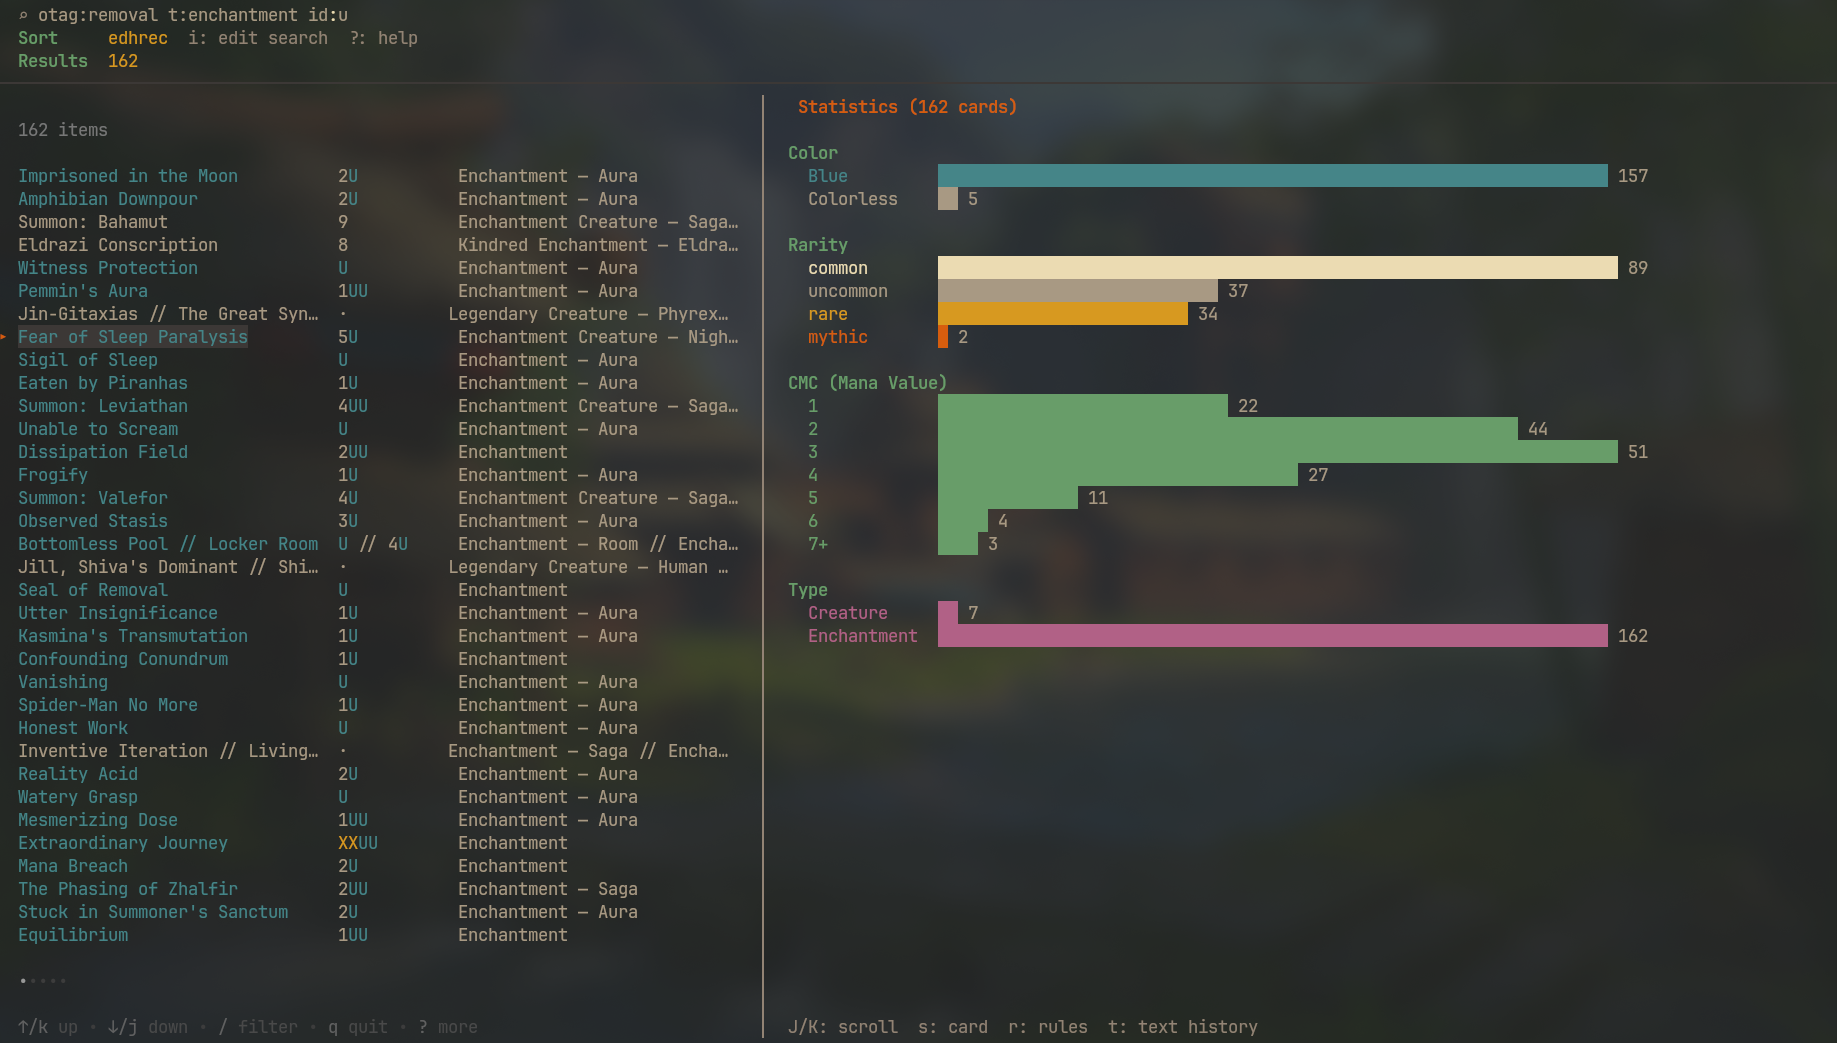
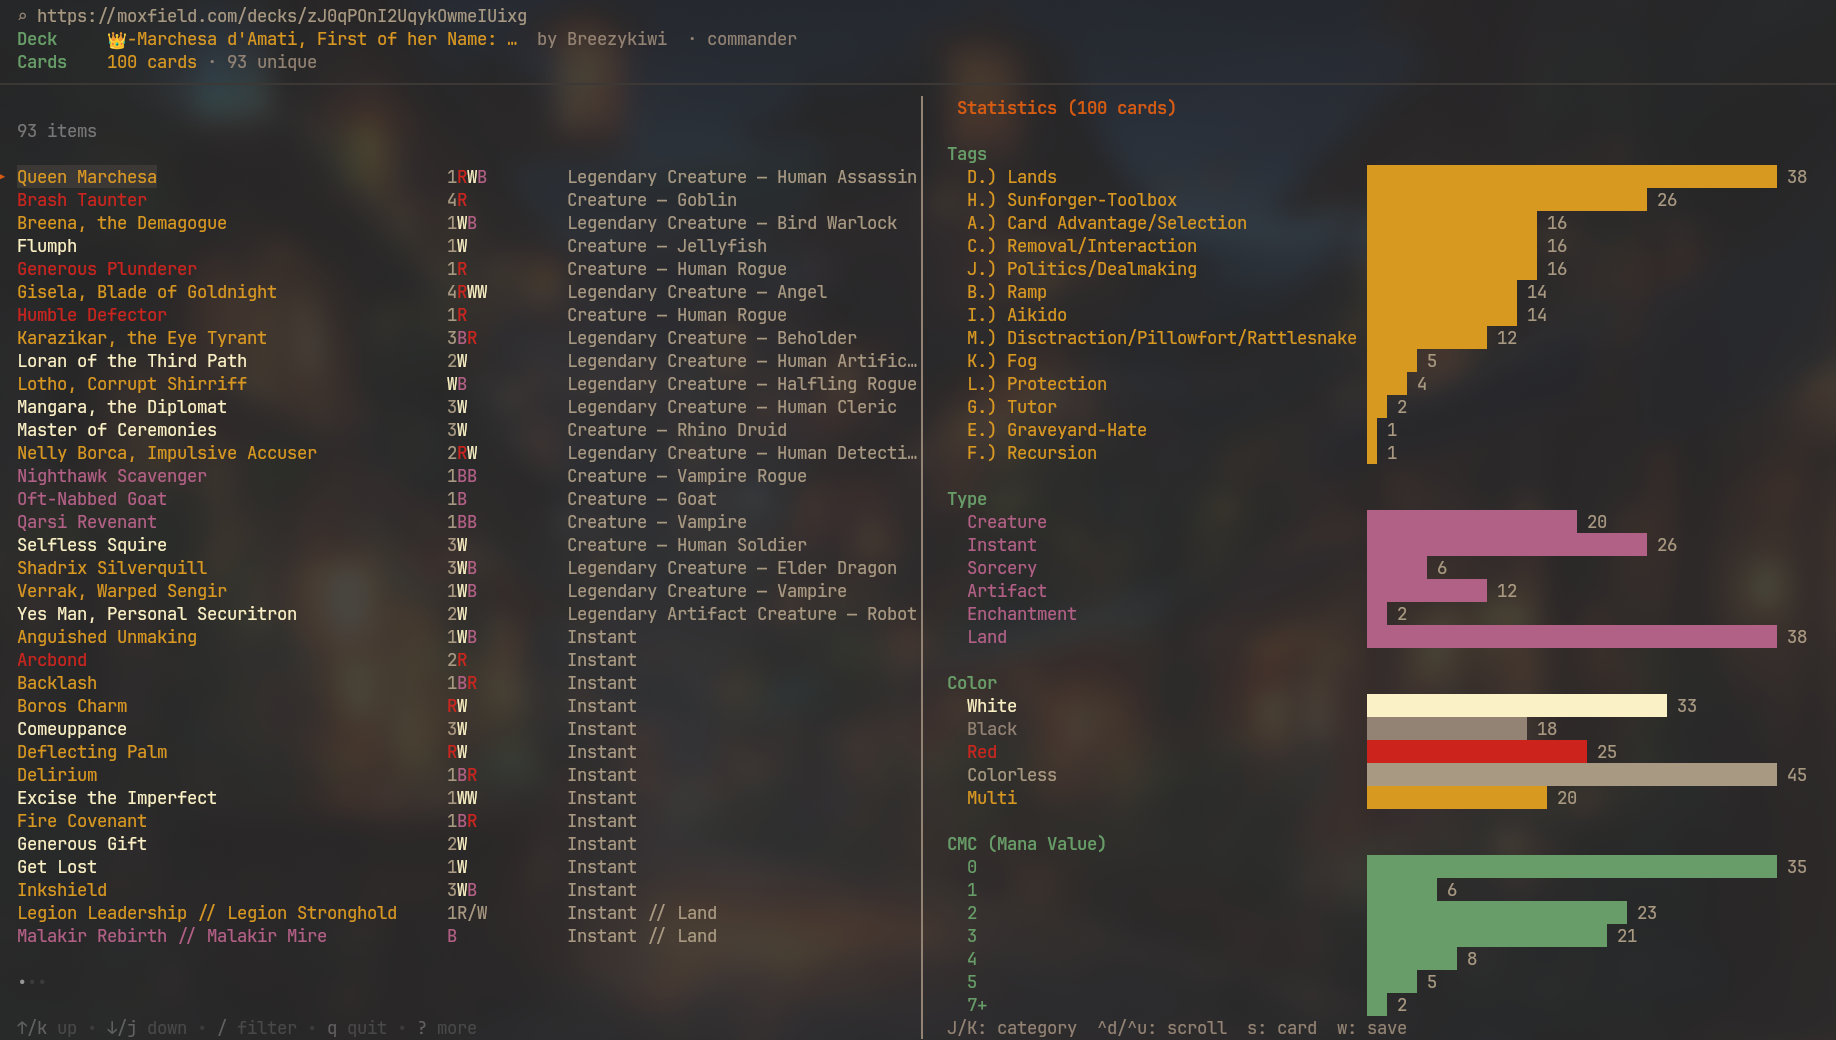
Reorder the statistics categories, and scroll them independently
The breakdown now reads Tags, Type, Color, CMC, Rarity: what the deck's
author called their cards first, then what those cards are, with the
printing details last.

ctrl+d and ctrl+u scroll a panel half a screen. In the statistics panel
that moves the view without moving the selected category, which J/K
can't do — it walks the categories and pulls the selection back into
view. Both now go through one place that stops at the end of the
content, so holding J no longer scrolls any panel off into blank space.

Adds screenshots of a loaded deck and of filtering by a category, and
refreshes the statistics one for the new order.

diff --git a/main.go b/main.go
@@ -530,6 +530,9 @@ KEYS — RESULTS
   J/K, shift+↑/↓          Scroll the panel — in the statistics panel,
                           walk the categories and filter the cards to
                           whichever one the cursor is on
+  ctrl+d / ctrl+u         Scroll the panel half a screen; in the
+                          statistics panel this moves the view without
+                          moving the selected category
   r                       Rules for this card (again for the card view)
   s                       Statistics for these results (again for the card).
                           J/K there filters to a colour, rarity, mana
@@ -1202,37 +1205,28 @@ func (m model) updateList(msg tea.KeyMsg) (tea.Model, tea.Cmd) {
 		case "w":
 			return m.saveCurrentDeck(), nil
 		case "J", "shift+down":
-			switch m.panel {
-			case panelStats:
-				// The statistics panel is a list rather than a wall of
-				// text, so J/K walks its categories and filters to them.
+			// The statistics panel is a list rather than a wall of text,
+			// so J/K walks its categories and filters to them.
+			if m.panel == panelStats {
 				return m.statMove(1)
-			case panelRules:
-				m.rulesScroll++
-			case panelHistory:
-				m.historyScroll++
-			default:
-				m.previewScroll++
 			}
-			return m, nil
+			return m.scrollPanel(1), nil
 		case "K", "shift+up":
-			switch m.panel {
-			case panelStats:
+			if m.panel == panelStats {
 				return m.statMove(-1)
-			case panelRules:
-				if m.rulesScroll > 0 {
-					m.rulesScroll--
-				}
-			case panelHistory:
-				if m.historyScroll > 0 {
-					m.historyScroll--
-				}
-			default:
-				if m.previewScroll > 0 {
-					m.previewScroll--
-				}
 			}
-			return m, nil
+			return m.scrollPanel(-1), nil
+		case "ctrl+d", "ctrl+u":
+			// Scrolling the panel proper, which in the statistics panel
+			// means moving the view without moving the selected category.
+			step := (m.resultsLayout().panelH - 1) / 2
+			if step < 1 {
+				step = 1
+			}
+			if msg.String() == "ctrl+u" {
+				step = -step
+			}
+			return m.scrollPanel(step), nil
 		case "enter":
 			// Open the rules browser scoped to this card's keywords.
 			if item, ok := m.resultList.SelectedItem().(cardItem); ok {
@@ -1596,22 +1590,8 @@ func (m model) viewResults() string {
 	// given, which would reflow everything beside it.
 	listView := lipgloss.NewStyle().MaxWidth(l.listW).Render(m.resultList.View())
 
-	card, _ := m.resultList.SelectedItem().(cardItem)
-	inner := l.panelW - 4
-
-	var content string
-	var scroll int
-	switch m.panel {
-	case panelStats:
-		content, scroll = m.renderStats(inner), m.previewScroll
-	case panelRules:
-		content, scroll = m.renderCardRules(card.card, inner), m.rulesScroll
-	case panelHistory:
-		content, scroll = m.renderTextHistory(card.card, inner), m.historyScroll
-	default:
-		content, scroll = m.renderPreview(card.card, inner), m.previewScroll
-	}
-	panel := scrollView(content, scroll, l.panelH-1) + "\n" + m.panelHint()
+	panel := scrollView(m.panelContent(l.panelW-4), m.panelScroll(), l.panelH-1) +
+		"\n" + m.panelHint()
 
 	var body string
 	if l.vertical {
@@ -1629,6 +1609,64 @@ func (m model) viewResults() string {
 	}
 
 	return lipgloss.JoinVertical(lipgloss.Left, m.resultsHeader(), body)
+}
+
+// panelContent renders whichever panel is on screen.
+func (m model) panelContent(inner int) string {
+	card, _ := m.resultList.SelectedItem().(cardItem)
+
+	switch m.panel {
+	case panelStats:
+		return m.renderStats(inner)
+	case panelRules:
+		return m.renderCardRules(card.card, inner)
+	case panelHistory:
+		return m.renderTextHistory(card.card, inner)
+	default:
+		return m.renderPreview(card.card, inner)
+	}
+}
+
+// panelScroll is how far the panel on screen is scrolled. The card and
+// statistics panels share an offset — only one of them is ever showing.
+func (m model) panelScroll() int {
+	switch m.panel {
+	case panelRules:
+		return m.rulesScroll
+	case panelHistory:
+		return m.historyScroll
+	default:
+		return m.previewScroll
+	}
+}
+
+// scrollPanel moves the panel on screen by delta lines, without disturbing
+// anything it has selected — the statistics panel keeps its category.
+func (m model) scrollPanel(delta int) model {
+	l := m.resultsLayout()
+
+	// Stop at the bottom of the content rather than scrolling into blank.
+	maxScroll := strings.Count(m.panelContent(l.panelW-4), "\n") - (l.panelH - 1) + 1
+	if maxScroll < 0 {
+		maxScroll = 0
+	}
+
+	target := &m.previewScroll
+	switch m.panel {
+	case panelRules:
+		target = &m.rulesScroll
+	case panelHistory:
+		target = &m.historyScroll
+	}
+
+	*target += delta
+	if *target > maxScroll {
+		*target = maxScroll
+	}
+	if *target < 0 {
+		*target = 0
+	}
+	return m
 }
 
 // panelBox frames the panel beside (or below) the result list.
@@ -1659,7 +1697,7 @@ func (m model) panelHint() string {
 	parts := []string{"J/K: scroll"}
 	switch m.panel {
 	case panelStats:
-		parts = []string{"J/K: category", "s: card", "r: rules"}
+		parts = []string{"J/K: category", "^d/^u: scroll", "s: card"}
 		if m.statFilter != nil {
 			parts = append(parts, "esc: clear")
 		}

diff --git a/tui_test.go b/tui_test.go
@@ -485,7 +485,9 @@ func TestPanelModes(t *testing.T) {
 // Each panel keeps its own scroll position.
 func TestPanelScrolling(t *testing.T) {
 	data := loadTestRules(t)
-	m := resultsModel(t, 160, 40, data)
+
+	// A short terminal, so the card panel has more to show than it can fit.
+	m := resultsModel(t, 160, 14, data)
 
 	scrollDown := func(m model) model {
 		return drive(m, tea.KeyMsg{Type: tea.KeyRunes, Runes: []rune("J")})
@@ -508,6 +510,28 @@ func TestPanelScrolling(t *testing.T) {
 	m = drive(m, tea.KeyMsg{Type: tea.KeyDown})
 	if m.previewScroll != 0 || m.rulesScroll != 0 {
 		t.Errorf("moving cards left scroll at %d/%d", m.previewScroll, m.rulesScroll)
+	}
+
+	// Scrolling stops at the end of the content rather than running on
+	// into blank space.
+	m = press(m, 'r')
+	for i := 0; i < 200; i++ {
+		m = scrollDown(m)
+	}
+	lines := strings.Count(m.panelContent(m.resultsLayout().panelW-4), "\n") + 1
+	if m.rulesScroll >= lines {
+		t.Errorf("scrolled to line %d of %d lines of content", m.rulesScroll, lines)
+	}
+	atEnd := m.rulesScroll
+	m = scrollDown(m)
+	if m.rulesScroll != atEnd {
+		t.Errorf("scroll moved past the end: %d then %d", atEnd, m.rulesScroll)
+	}
+
+	// A panel that fits doesn't scroll at all.
+	tall := resultsModel(t, 160, 60, data)
+	if got := scrollDown(scrollDown(tall)).previewScroll; got != 0 {
+		t.Errorf("a panel with room to spare scrolled to %d", got)
 	}
 }
 
@@ -1461,5 +1485,53 @@ func TestBarsScaleToTheUnfilteredSet(t *testing.T) {
 	cmc5 := selectedBar(t, walkTo(t, base, "CMC", "5"))
 	if cmc5 <= cmc3 {
 		t.Errorf("CMC 5 (2 cards) drew %d blocks and CMC 3 (1 card) drew %d", cmc5, cmc3)
+	}
+}
+
+func TestStatsScrollLeavesTheSelectionAlone(t *testing.T) {
+	// A short terminal, so the category list runs past the panel.
+	cards := deckFixture()
+	cards[0].tags = []string{"Ramp", "Own"}
+	cards[1].tags = []string{"Ramp"}
+	cards[3].tags = []string{"Land"}
+
+	m := initialModel()
+	m = drive(m, tea.WindowSizeMsg{Width: 160, Height: 16})
+	m = drive(m, deckLoadedMsg{info: deckInfo{name: "Tagged", total: 34}, cards: cards})
+	m = drive(m, tea.KeyMsg{Type: tea.KeyRunes, Runes: []rune("s")})
+	m = walkTo(t, m, "Type", "Creature")
+
+	was, wasFilter := m.statIndex, m.statFilterLabel()
+	narrowed := len(m.resultList.Items())
+
+	m = drive(m, tea.KeyMsg{Type: tea.KeyCtrlD})
+	if m.previewScroll == 0 {
+		t.Fatal("ctrl+d did not scroll the statistics panel")
+	}
+	if m.statIndex != was || m.statFilterLabel() != wasFilter {
+		t.Errorf("scrolling moved the selection from %d/%s to %d/%s",
+			was, wasFilter, m.statIndex, m.statFilterLabel())
+	}
+	if len(m.resultList.Items()) != narrowed {
+		t.Error("scrolling changed which cards are listed")
+	}
+
+	scrolled := m.previewScroll
+	m = drive(m, tea.KeyMsg{Type: tea.KeyCtrlU})
+	if m.previewScroll >= scrolled {
+		t.Errorf("ctrl+u did not scroll back: %d then %d", scrolled, m.previewScroll)
+	}
+	if m.statIndex != was {
+		t.Error("scrolling back moved the selection")
+	}
+
+	// Moving the selection again brings it back into view.
+	m = drive(m, tea.KeyMsg{Type: tea.KeyCtrlD})
+	m = drive(m, tea.KeyMsg{Type: tea.KeyRunes, Runes: []rune("J")})
+	line := statLine(m.statPanel(), m.statIndex)
+	height := m.resultsLayout().panelH - 1
+	if line < m.previewScroll || line >= m.previewScroll+height {
+		t.Errorf("selected row on line %d is outside the visible %d..%d",
+			line, m.previewScroll, m.previewScroll+height-1)
 	}
 }

diff --git a/stats.go b/stats.go
@@ -200,12 +200,14 @@ func tagRows(entries []cardItem) []statRow {
 // and so hold still, while the numbers beside them describe just the cards
 // on screen — a category with nothing left in it stays put and reads zero.
 func statGroups(rowSource, counted []cardItem) []statGroup {
+	// Most telling first: what the deck's author called their cards, then
+	// what those cards are, and the printing details last.
 	groups := []statGroup{
-		{title: "Color", rows: colorRows()},
-		{title: "Rarity", rows: rarityRows(rowSource)},
-		{title: "CMC (Mana Value)", rows: cmcRows()},
-		{title: "Type", rows: typeRows()},
 		{title: "Tags", rows: tagRows(rowSource)},
+		{title: "Type", rows: typeRows()},
+		{title: "Color", rows: colorRows()},
+		{title: "CMC (Mana Value)", rows: cmcRows()},
+		{title: "Rarity", rows: rarityRows(rowSource)},
 	}
 
 	out := make([]statGroup, 0, len(groups))

diff --git a/README.md b/README.md
@@ -40,9 +40,17 @@ Search results with the card panel alongside — oracle text highlighted, ruling
 
 ![Rules for the selected card](screenshots/rules.png)
 
-`s` shows statistics across the whole result set: colour, rarity, mana value and type.
+A public Moxfield deck opened by URL — the deck reads in decklist order, and its cards behave like any other result.
 
-![Statistics for the result set](screenshots/statistics.png)
+![A Moxfield deck](screenshots/moxfield_deck.png)
+
+`s` breaks the list down by the author's tags, type, colour, mana value and rarity.
+
+![Statistics for a deck](screenshots/statistics.png)
+
+`J/K` walks those categories and narrows the cards to whichever one it's on — here the deck's removal, with the breakdown re-cut for just those sixteen cards. Categories the filter has emptied hold their places at zero, and the bars stay scaled to the whole deck.
+
+![Filtering by a statistics category](screenshots/filter_stats.png)
 
 `t` shows how the card's printed wording changed across its printings, one entry per distinct wording.
 
@@ -258,7 +266,7 @@ Cards    100 cards · 86 unique  ▸ Tags: Aura
 
 The histograms redraw for whichever cards the selected category leaves on screen: land on **White** and every bar describes the white cards — their curve, their rarities, their types. Walking further re-cuts the same view again.
 
-Categories the filter has emptied keep their places and read zero rather than disappearing, so nothing shifts under the cursor and you can always walk back out. `esc` clears the filter; the header shows which one is active until you do.
+Categories the filter has emptied keep their places and read zero rather than disappearing, so nothing shifts under the cursor and you can always walk back out. Bars stay scaled to the unfiltered set, so a small category reads as small rather than refilling the panel. `ctrl+d` / `ctrl+u` scroll a long breakdown without moving the selected category; `esc` clears the filter, and the header shows which one is active until you do.
 
 ```
 Statistics (30 cards) · Color: White      Statistics (12 cards) · Tags: Aura
@@ -322,6 +330,7 @@ scry "t:dragon c:R"
 | `i` | Edit the search query |
 | `esc` | Clear the filter — or quit, if there isn't one |
 | `J/K` or `shift+↑/↓` | Scroll the panel; in statistics, walk the categories |
+| `ctrl+d` / `ctrl+u` | Scroll the panel half a screen, leaving the selection put |
 | `r` | Rules for this card (press again for the card view) |
 | `s` | Statistics for these results (press again for the card view) |
 | `t` | Printed text history (press again for the card view) |
